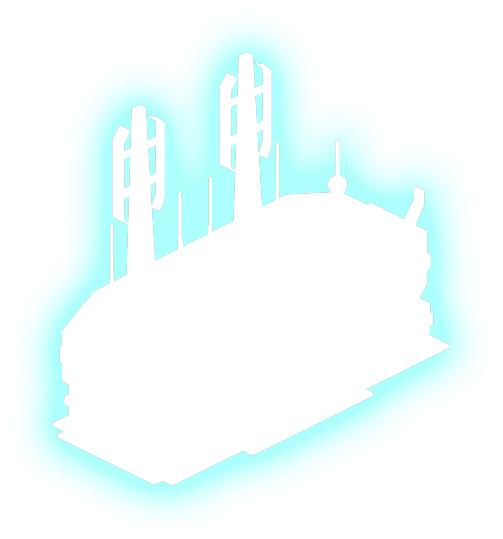
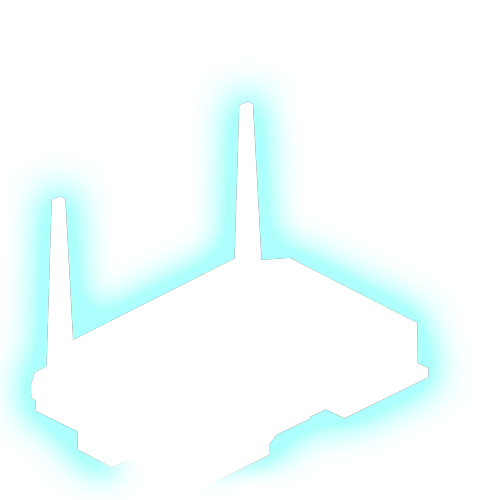
added router

diff --git a/src/buildings/config.ts b/src/buildings/config.ts
@@ -107,8 +107,14 @@ import slotMachineLevel2Img from './slot-machine/2.png';
 import slotMachineLevel2Stroke from './slot-machine/2-stroke.png';
 import slotMachineLevel3Img from './slot-machine/3.png';
 import slotMachineLevel3Stroke from './slot-machine/3-stroke.png';
+import routerLevel0Img from './router/0.png';
+import routerLevel0Stroke from './router/0-stroke.png';
 import routerLevel1Img from './router/1.png';
 import routerLevel1Stroke from './router/1-stroke.png';
+import routerLevel2Img from './router/2.png';
+import routerLevel2Stroke from './router/2-stroke.png';
+import routerLevel3Img from './router/3.png';
+import routerLevel3Stroke from './router/3-stroke.png';
 import autoFactoryLevel1Img from './auto-factory/1.png';
 import autoFactoryLevel1Stroke from './auto-factory/1-stroke.png';
 import autoFactoryLevel2Img from './auto-factory/2.png';
@@ -693,26 +699,27 @@ class BuildingsService {
       title: 'Домашний интернет',
       wideTower: false,
       zIndex: ZIndexes.BUILDING_TWO_LEVEL,
-      maxLevel: TowerLevel.low,
-      hide: true,
-      width: 503,
-      height: 539,
-      areaCoords: '434,188,79,472',
-      position: [45, 30],
+      maxLevel: TowerLevel.high,
+      width: 494,
+      height: 500,
+      areaCoords: '49,127,443,496',
+      position: [23.8, 25.35],
       ref: null,
+      [TowerLevel.deactive]: {
+        img: routerLevel0Img,
+        shadowImg: routerLevel0Stroke,
+      },
       [TowerLevel.low]: {
         img: routerLevel1Img,
         shadowImg: routerLevel1Stroke,
       },
-      // TODO: не настоящая картинка
       [TowerLevel.mid]: {
-        img: bankLevel2Img,
-        shadowImg: bankLevel2Stroke,
+        img: routerLevel2Img,
+        shadowImg: routerLevel2Stroke,
       },
-      // TODO: не настоящая картинка
       [TowerLevel.high]: {
-        img: airportLevel3Img,
-        shadowImg: airportLevel3Stroke,
+        img: routerLevel3Img,
+        shadowImg: routerLevel3Stroke,
       },
     },
     [TowersTypes.SHOP]: {

diff --git a/src/effector/towers-progress/store.ts b/src/effector/towers-progress/store.ts
@@ -310,7 +310,7 @@ const initState: TowersProgressStoreType = {
     productId: 1,
     points: 0,
     level: {
-      id: TowerLevel.low,
+      id: TowerLevel.deactive,
       name: '0 уровень',
       value: 0,
     },
